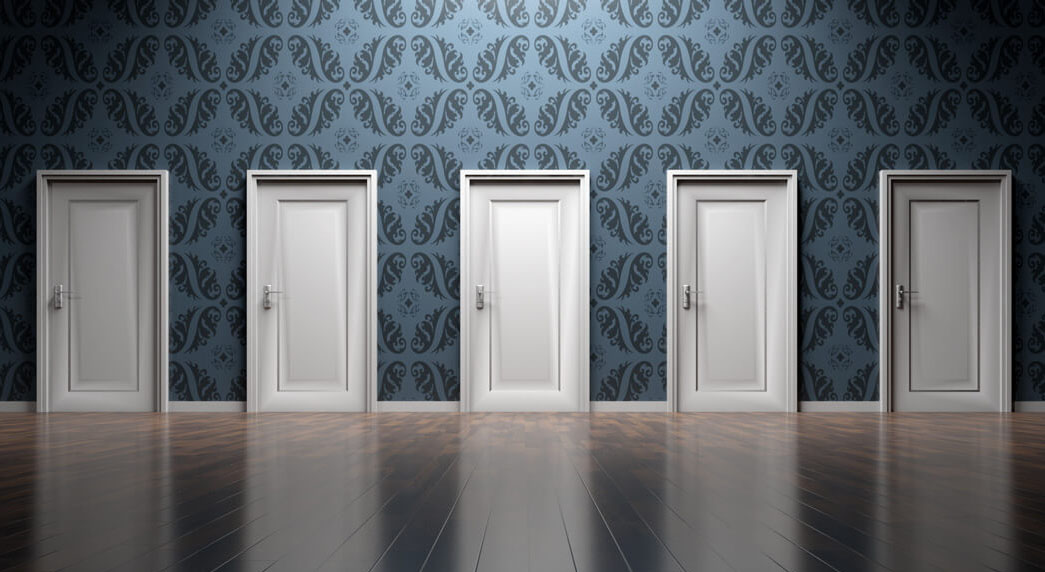
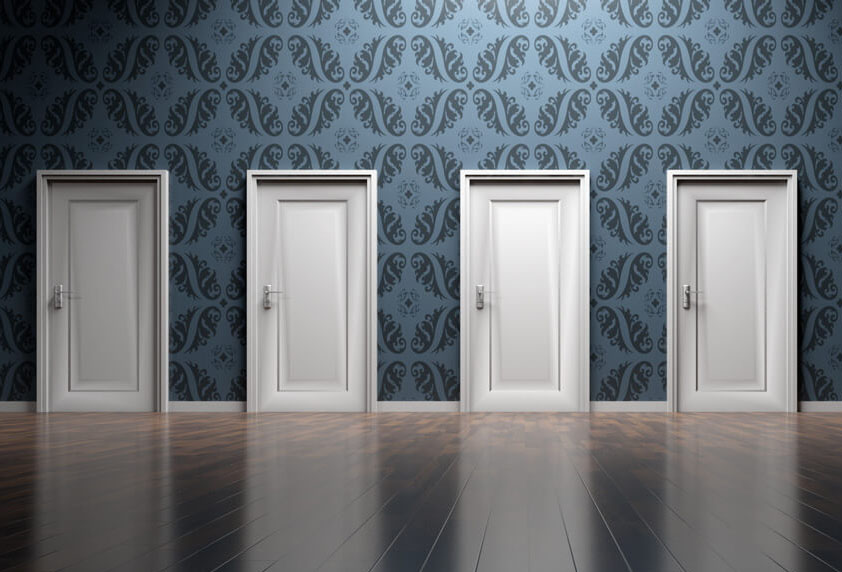
Fix row of door pic/maps

diff --git a/index.html b/index.html
@@ -27,16 +27,7 @@
 	<!-------------------- Main Pages ----------------------->
 
 		<!-- Landing Page -->
-		<div class="homepage">
-			<!--Todo: make a play page-->
-			<div id="play-button" class="button">
-				
-			</div>
-
-			<div id="credits-button" class="button">
-				
-			</div>
-		</div>
+		
 
 		<div class="homepage" id="homepage">
 			<!-- Page Image -->
@@ -44,11 +35,10 @@
 
 			<!-- Map for the Page Image -->
 			<map name="map_homepage">
-			    <area id="main-door-1" target="" alt="door1" title="door1" href="" coords="168,413,37,170" shape="rect">
-			    <area id="main-door-2" target="" alt="door2" title="door2" href="" coords="245,172,376,410" shape="rect">
-			    <area id="main-door-3" target="" alt="door3" title="door3" href="" coords="460,171,588,413" shape="rect">
-			    <area id="main-door-4" target="" alt="door4" title="door4" href="" coords="665,171,799,414" shape="rect">
-			    <area id="main-door-5" target="" alt="door5" title="door5" href="" coords="879,171,1012,412" shape="rect">
+			    <area id="main-door-1" alt="door1" title="door1" coords="169,412,36,171" shape="rect">
+			    <area id="main-door-2" alt="door2" title="door2" coords="246,169,374,413" shape="rect">
+			    <area id="main-door-3" alt="door3" title="door3" coords="460,172,589,411" shape="rect">
+			    <area id="main-door-4" alt="door4" title="door4" coords="666,171,796,411" shape="rect">		
 			</map>
 		</div>
 
@@ -58,7 +48,7 @@
 
 			<!-- Audio Starter -->
 			<div id="marissa_audio" class="page audio-container">
-				<audio id="audio1" autoplay src="perplexity2.mp3" loop controls>
+				<audio id="audio-marissa" autoplay src="perplexity2.mp3" loop controls>
 					Your browser does not support the audio element.
 				</audio>
 			</div>
@@ -66,28 +56,13 @@
 			<div class="page" id="marissa_1">
 			
 				<!-- Page Image -->
-				<img class="background" usemap="#map_page1" src="images/beachdoor_1.jpg">
+				<img class="background" usemap="#map_page1" src="images/marissa/1_archways.jpg">
 
 				<!-- Map for the Page Image -->
-				<map name="map_page1">
-				    <area id="mapto_1-2" alt="beachdoor_1" title="beachdoor_1" coords="622,430,506,888,281,879,411,374" shape="poly">
-				</map>
+				
 
 			</div>
 
-
-			<div class="page" id="page_1-2" hidden>
-				<img class="background" src="images/beachdoor_2.jpg" usemap="#map_page1-2">
-
-				<map name="map_page_1-2">
-			    	<area id="mapto_1-3" alt="beachdoor_2" title="beachdoor_2" coords="334,446,467,942,602,889,853,882,774,604,720,361" shape="poly">
-				</map>
-			</div>
-
-
-			<div class="page" id="page_1-3" hidden>
-				<img class="background" src="images/beachdoor_3.jpg" usemap="#map_page1-3">
-			</div>
 		</div>
 
 		<!-------------------- Troy Pages ----------------------->
